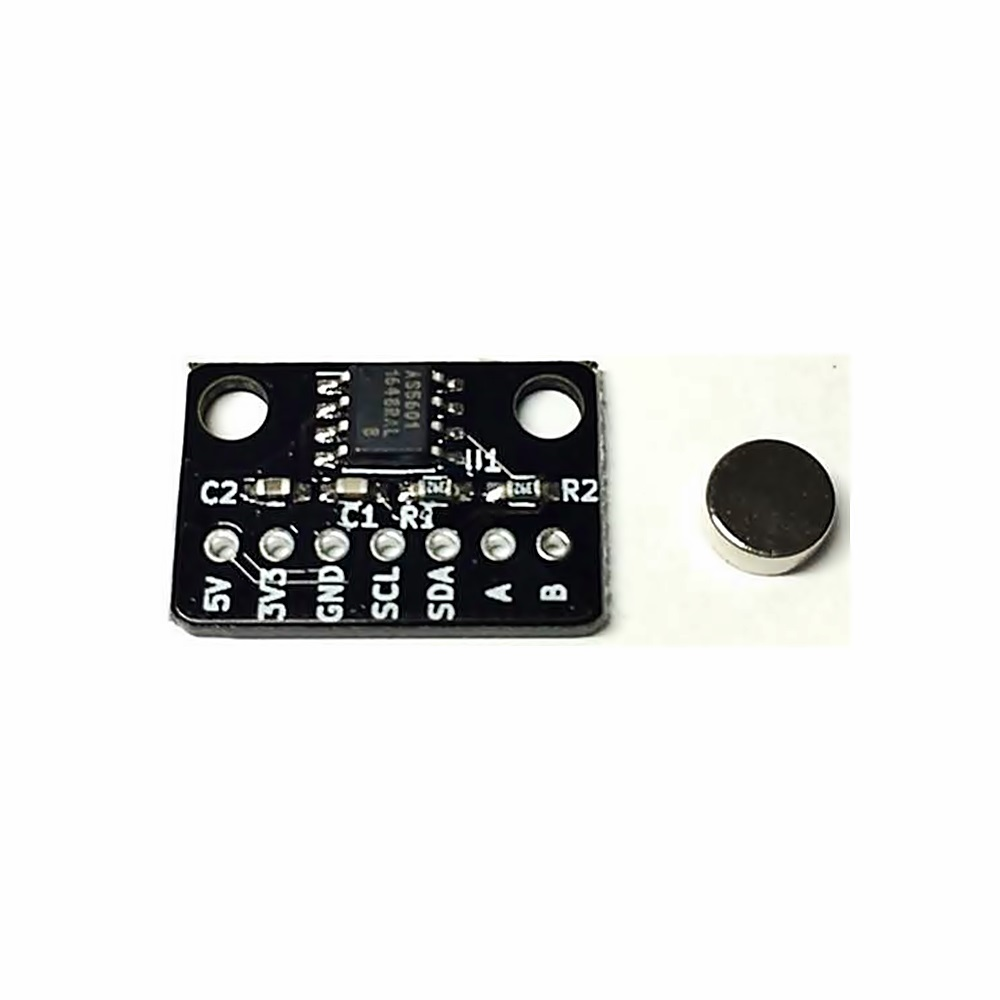
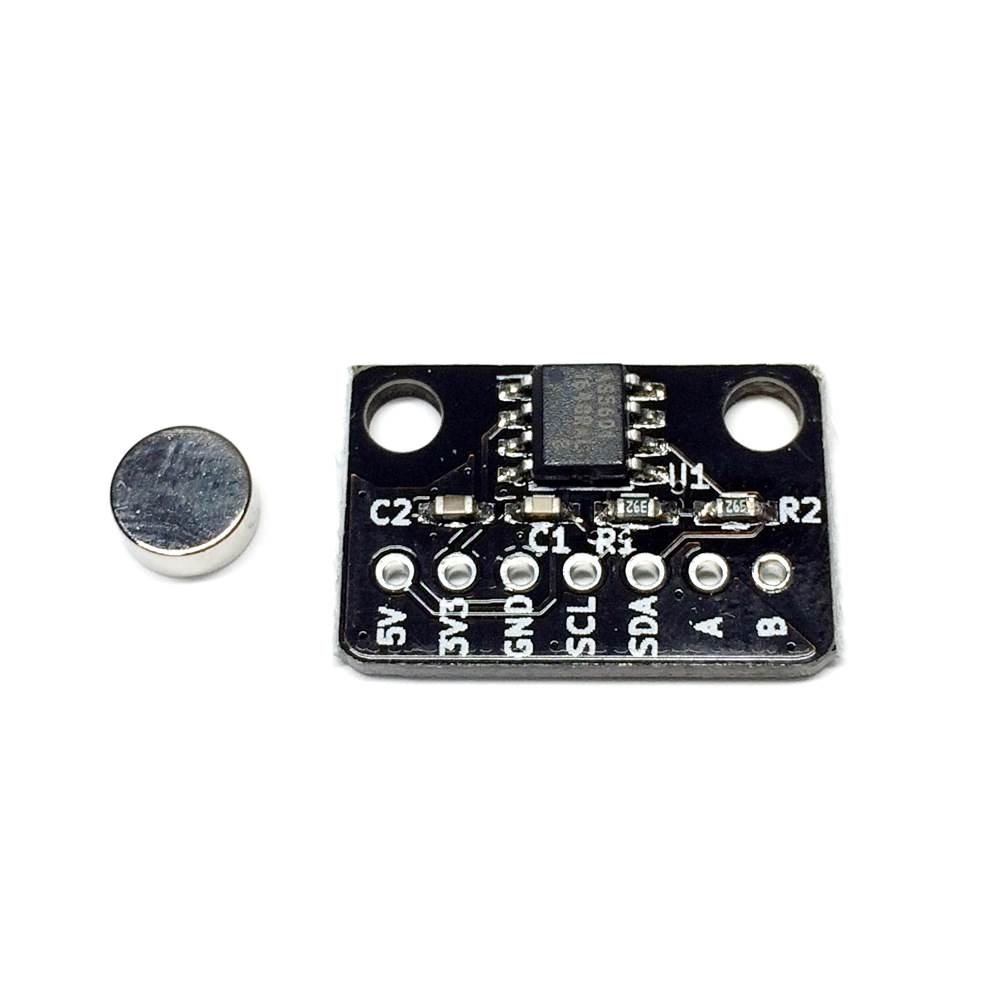
fix

Changed region(s): [[0.093, 0.341, 0.868, 0.682]]

diff --git a/README.md b/README.md
@@ -2,14 +2,16 @@
 
 # 12bit磁気式エンコーダAS5601 Breakout Board
 
-<img src="/images/EncoderPCB_image.png" width="500px">
+<img src="/images/EncoderPCB_image_BothSide.png" width="500px">
+
+## 概要
 
 12 bit 分解能の磁気式アブソリュートエンコーダ AS5601 (ams AG製) を2.54mmピッチに変換する基板です。ネオジム磁石を同梱。  
 5V、3.3V、GNDの電源ピンとI2C、A/B相インクリメンタル出力のピンが出ています。電源電圧は5Vもしくは3.3Vです。  
 **※AS5600との違いはAS5600の出力方式がアナログ/PWM出力であるのに対し、AS5601はA/B相のインクリメンタル出力である点です。**
 
-## AS5601の特徴
-- 12 bit(4096)/1回転の高分解能
+### AS5601の特徴
+- 12 bit(4096)/回転の高分解能
 - 磁気式のため非接触で角度計測が可能であり、信頼性と耐久性に優れている
 - インターフェイス：I2C、インクリメンタル出力、PUSHピン
 - I2C：設定レジスタにアクセスでき、角度の読み取りや動作設定が可能
@@ -17,24 +19,28 @@
 - サンプリング時間：150μs
 - AS5601とネオジム磁石の軸中心が1mm程度ずれても値の読み取りが可能
 
-## 基板仕様
+### 基板仕様
 - 基板サイズ：横20mm×縦13.5ｍｍ
 - 基板マウント用穴：15mmピッチ、M3×2穴
-- AS5601の中心位置：横方向は中央、縦方向はピン側の基板端から10.2mm
 - 電源電圧に5Vを供給する場合は3.3Vピンをオープンに、3.3Vを供給する場合は5Vピンにも3.3Vを供給してください。
 - PUSHピンは接続されていないためアクセスできません
+
+### 寸法  
+<img src="/images/EncoderPCB_image.jpg" width="250px">
 
 ## 販売
 検討中
 
 ## 内容物
 - AS5601 Breakout Board 本体
-- ネオジム磁石
+- エンコーダ用ネオジム磁石
+
+<img src="/images/Product_photo.jpg" width="200px">
 
 ## 取付方法
 1. 同梱のネオジム磁石を回転体の軸中心に取り付けます
 2. AS5601の中心とネオジム磁石の中心が合うよう基板を固定部に取り付けます
- 
+
 **取付例**  
 <img src="/images/Assemble_sample.jpg" width="250px">
 
